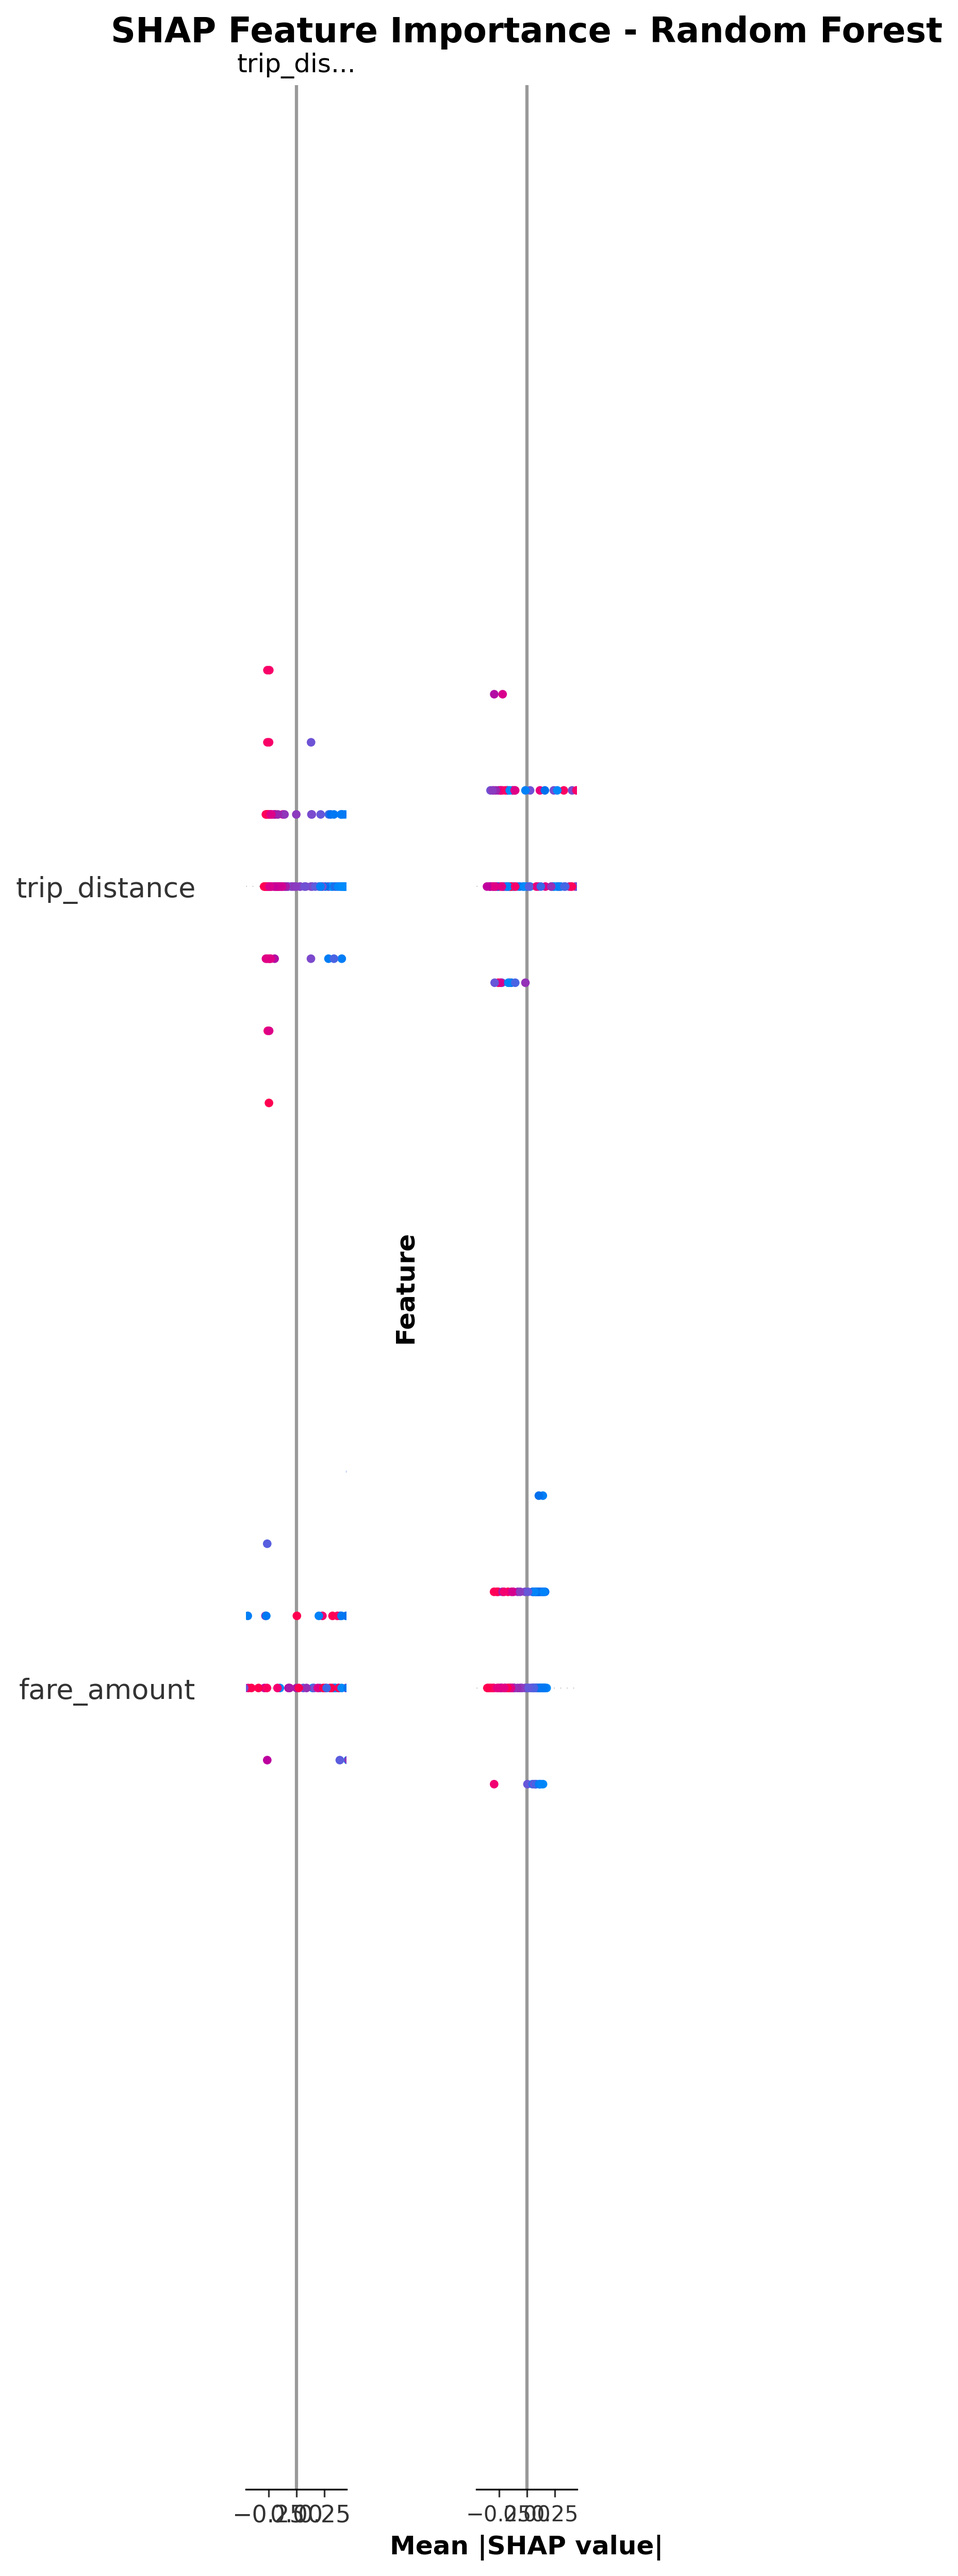
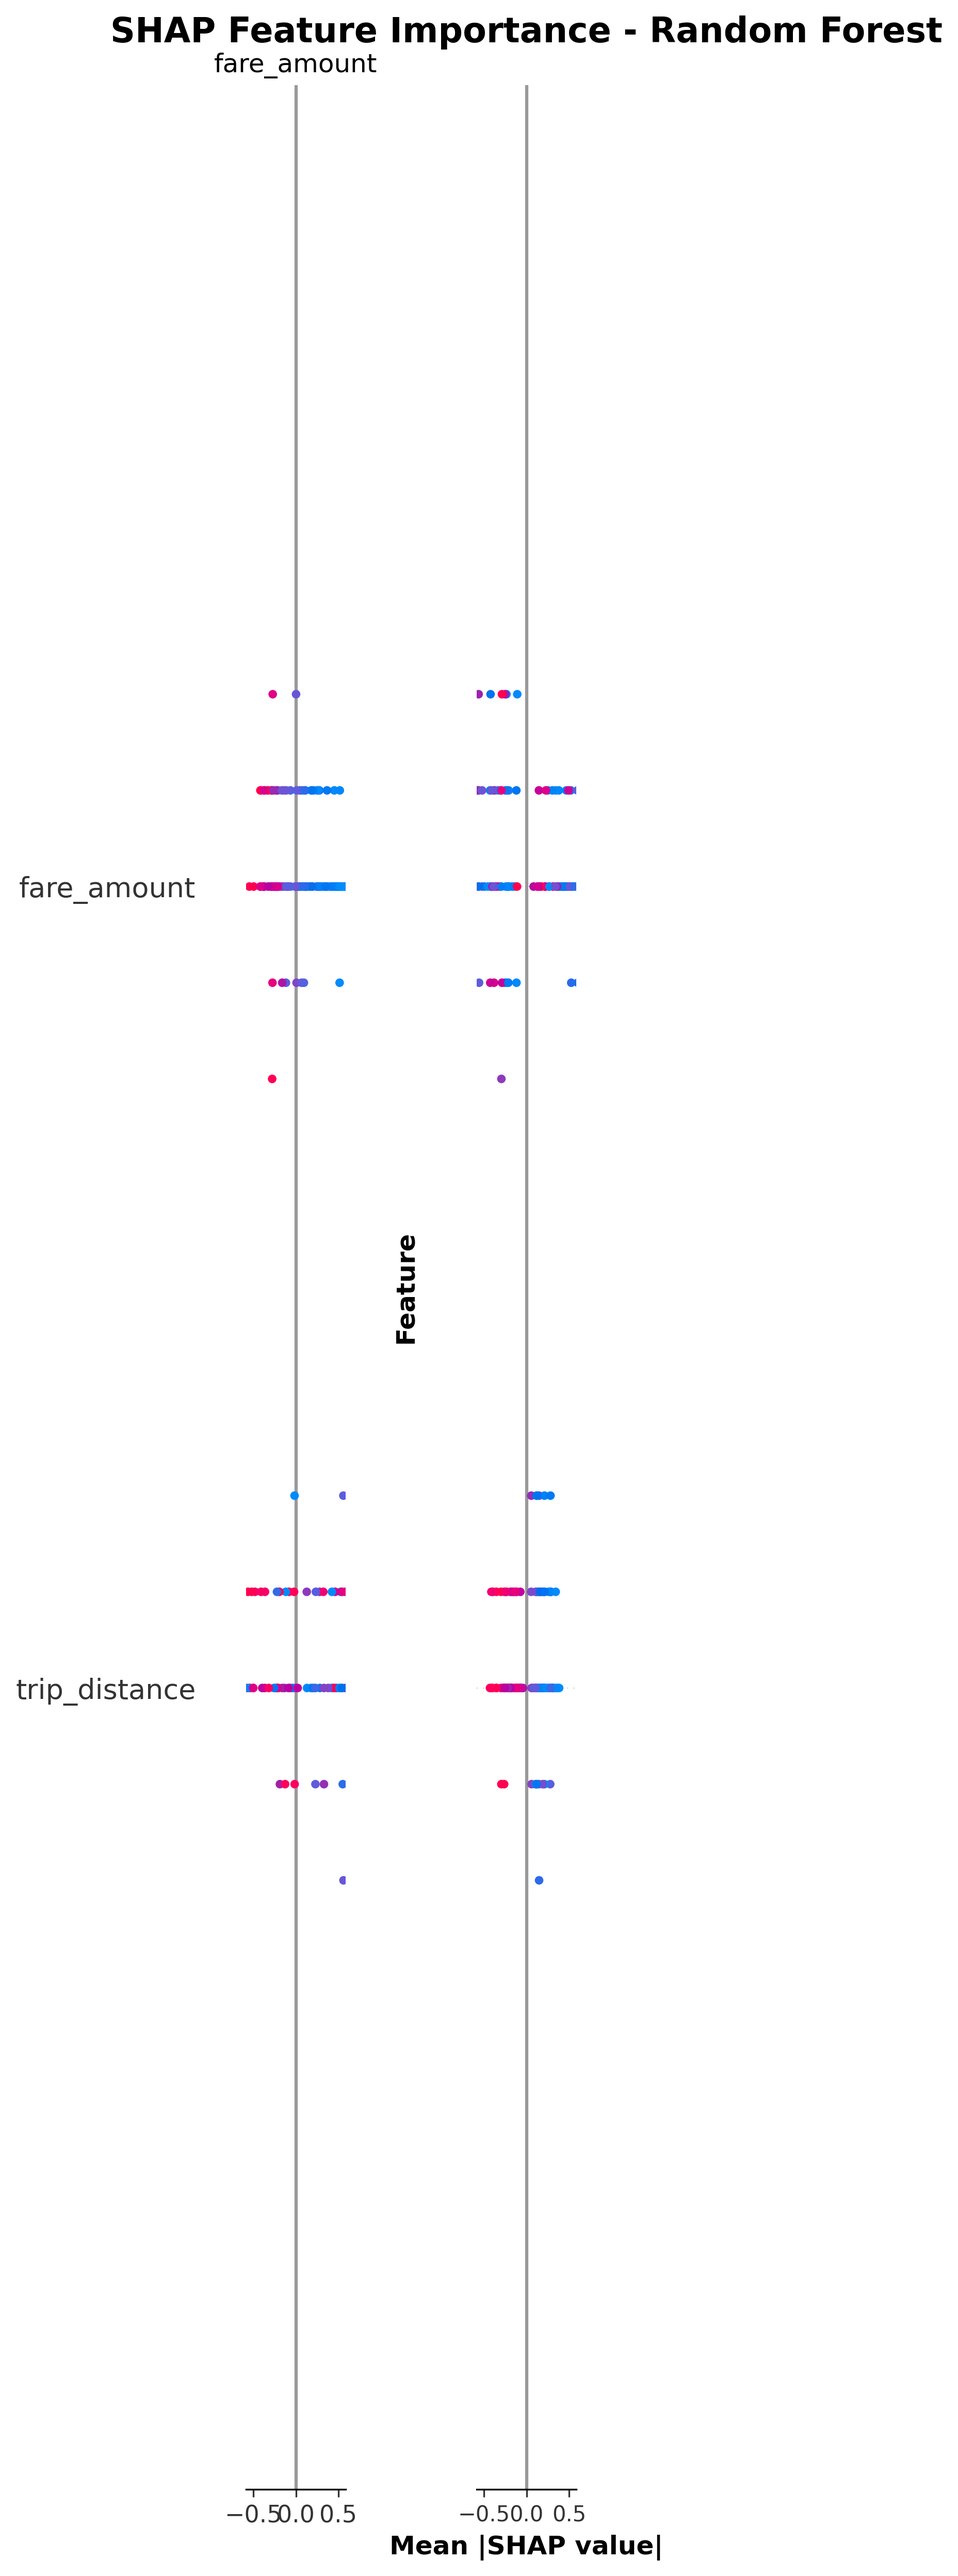
we should use all the processed data not the samples. Re ran plots as well.

diff --git a/src/advanced_models.py b/src/advanced_models.py
@@ -55,7 +55,7 @@ class SmartRideAdvancedModels:
             data_path: Path to preprocessed data
             random_state: Random seed for reproducibility
         """
-        self.data_path = data_path or "data/processed/uber_real_data_processed_sample.csv"
+        self.data_path = data_path or "data/processed/uber_real_data_processed.csv"
         self.random_state = random_state
         self.rf_model = None
         self.baseline_model = None
@@ -1190,7 +1190,7 @@ def main():
     """
     # Initialize and run complete pipeline
     models = SmartRideAdvancedModels(
-        data_path="data/processed/uber_real_data_processed_sample.csv"
+        data_path="data/processed/uber_real_data_processed.csv"
     )
     
     comparison_df, feature_importance = models.run_complete_pipeline(
